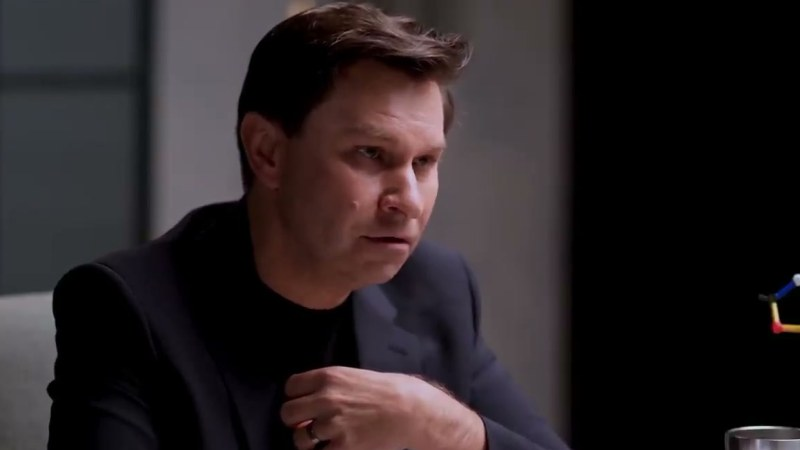
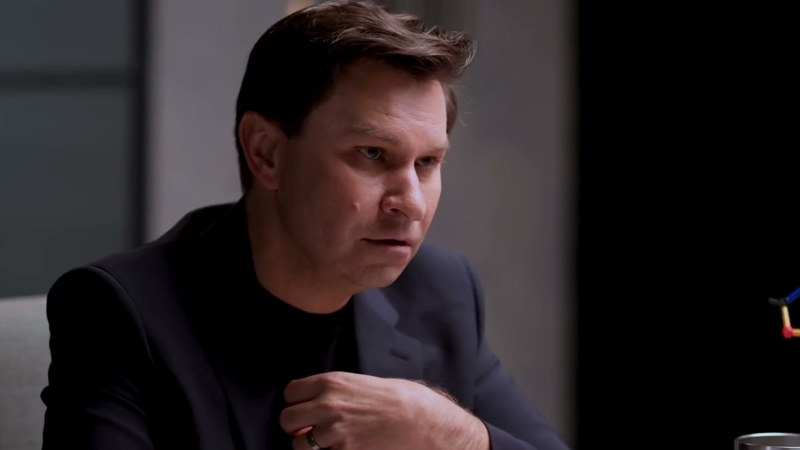
Bump portrait pipeline to 1080p with retina (@user) assets
- extract-portrait-frames.mjs now downloads at 1080p (was 720p)
- auto-portrait.py saves each candidate at both 1x (800×450) and 2x (1600×900)
- EpisodeCard srcset gated on guest.portrait2x so non-retina guests still render
- B&W via CSS grayscale filter; source images stay color (easy to revert)
- Second curated episode: Whitney Wolfe Herd / Bumble (2022); no academic
  credentials, founder-only profile to stress-test the card layout

Caveat reinforced: face detection picked the host (Bartlett) over Wolfe Herd
in the top score; alt-2 was the actual guest. Manual swap performed for now.
Identity recognition still the open next step.

diff --git a/components/EpisodeCard.vue b/components/EpisodeCard.vue
@@ -57,6 +57,7 @@ const guestPromotionGroups = computed(() => {
         <img
           v-if="guests[0]?.portrait"
           :src="guests[0].portrait"
+          :srcset="guests[0].portrait2x ? `${guests[0].portrait} 1x, ${guests[0].portrait2x} 2x` : undefined"
           :alt="guests[0].name"
           class="portrait-img"
         />
@@ -143,6 +144,7 @@ const guestPromotionGroups = computed(() => {
   width: 100%;
   height: 100%;
   object-fit: cover;
+  filter: grayscale(100%);
 }
 
 .portrait-placeholder {

diff --git a/scripts/auto-portrait.py b/scripts/auto-portrait.py
@@ -23,13 +23,13 @@ top_n = int(sys.argv[3]) if len(sys.argv) > 3 else 3
 cascade = cv2.CascadeClassifier(cv2.data.haarcascades + "haarcascade_frontalface_default.xml")
 
 
-def crop_16_9(img, bbox):
+def crop_16_9(img, bbox, target_w, target_h):
     h, w = img.shape[:2]
     x, y, fw, fh = bbox
     face_cx = x + fw // 2
     face_cy = y + fh // 2
 
-    target_ratio = 16 / 9  # width / height
+    target_ratio = 16 / 9
     crop_h = min(int(fh * 2.6), h)
     crop_w = min(int(crop_h * target_ratio), w)
     crop_h = int(crop_w / target_ratio)
@@ -43,7 +43,7 @@ def crop_16_9(img, bbox):
     crop_y1 = max(0, min(crop_y1, h - crop_h))
 
     out = img[crop_y1 : crop_y1 + crop_h, crop_x1 : crop_x1 + crop_w]
-    return cv2.resize(out, (800, 450), interpolation=cv2.INTER_AREA)
+    return cv2.resize(out, (target_w, target_h), interpolation=cv2.INTER_AREA)
 
 
 candidates = []
@@ -88,11 +88,12 @@ os.makedirs(os.path.dirname(output_path) or ".", exist_ok=True)
 base, ext = os.path.splitext(output_path)
 
 for i, c in enumerate(top):
-    out_path = output_path if i == 0 else f"{base}-{i + 1}{ext}"
-    cropped = crop_16_9(c["img"], c["bbox"])
-    cv2.imwrite(out_path, cropped, [cv2.IMWRITE_JPEG_QUALITY, 88])
+    out_1x = output_path if i == 0 else f"{base}-{i + 1}{ext}"
+    out_2x = out_1x.replace(ext, f"@2x{ext}")
+    cv2.imwrite(out_1x, crop_16_9(c["img"], c["bbox"], 800, 450), [cv2.IMWRITE_JPEG_QUALITY, 88])
+    cv2.imwrite(out_2x, crop_16_9(c["img"], c["bbox"], 1600, 900), [cv2.IMWRITE_JPEG_QUALITY, 88])
     rank = "default" if i == 0 else f"alt {i + 1}"
     print(
         f"[{rank}] {os.path.basename(c['path'])} "
-        f"(score {c['score']:.3f}, face {c['area_pct'] * 100:.1f}%) → {out_path}"
+        f"(score {c['score']:.3f}, face {c['area_pct'] * 100:.1f}%) → {out_1x} + @2x"
     )